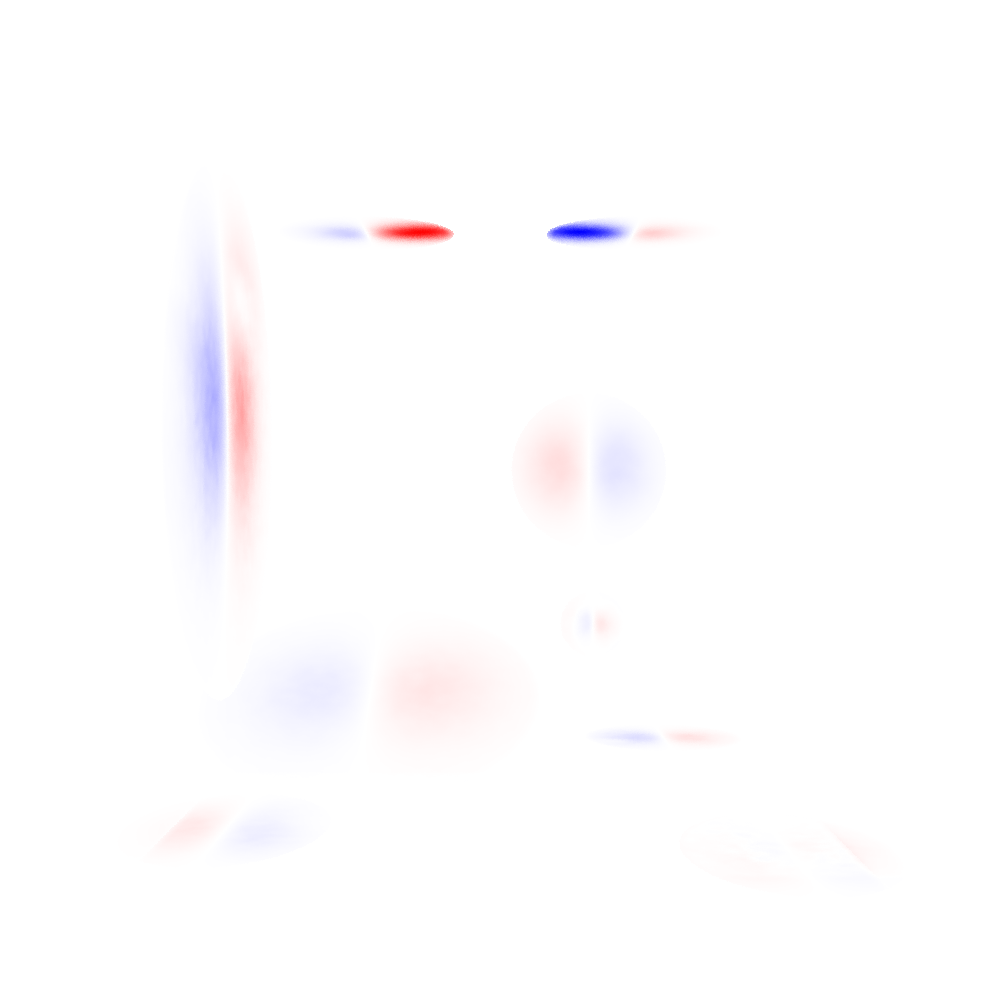
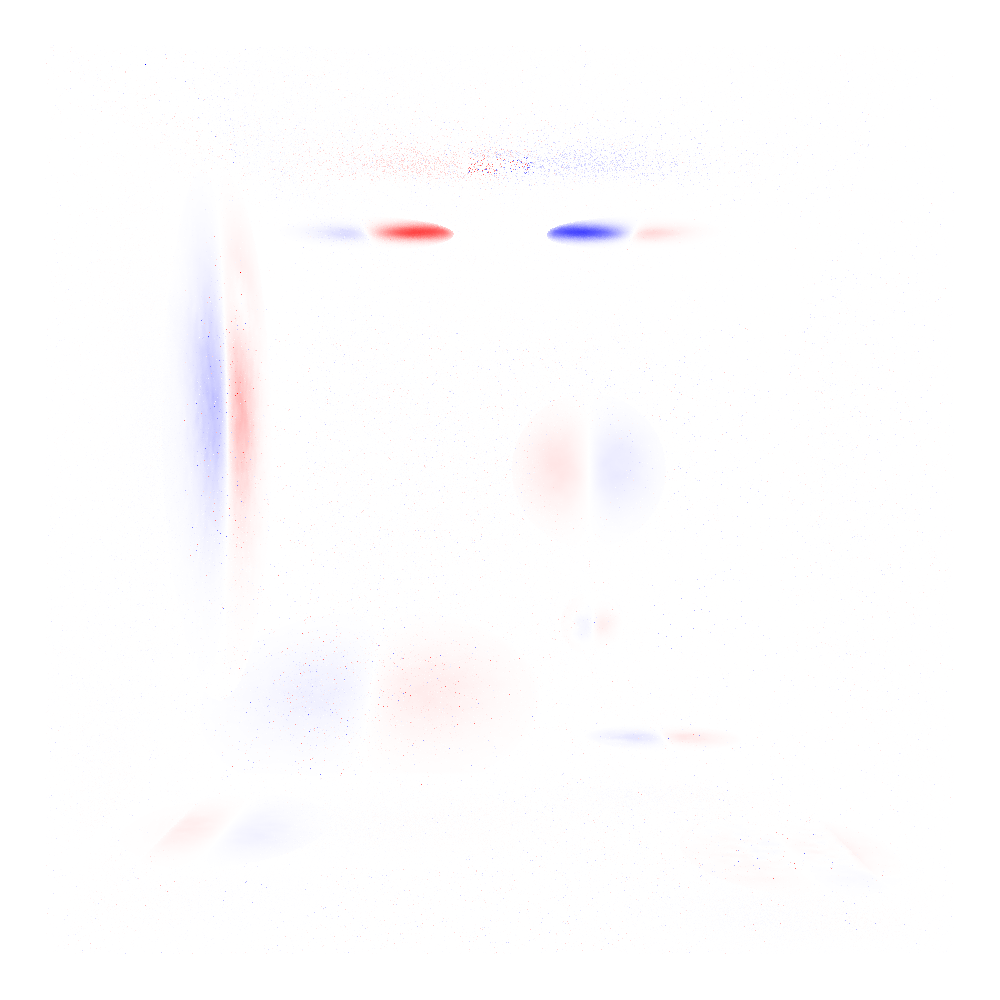
Think I got it working

diff --git a/Pale/Renderer/Kernels/AdjointKernels.cpp b/Pale/Renderer/Kernels/AdjointKernels.cpp
@@ -130,10 +130,6 @@ namespace Pale {
                     const bool isWatched = isWatchedPixel(pixelX, pixelY);
                     uint32_t recordBounceIndex = 0;
 
-                    if (rayState.bounceIndex != recordBounceIndex) {
-                        return;
-                    }
-
                     const float3 parameterAxis = {1.0f, 0.0f, 0.00f};
 
                     {
@@ -179,7 +175,6 @@ namespace Pale {
 
                                 auto splatEvent = whTransmit.splatEvents[0];
                                 // Collect alpha_i and d(alpha_i)/dc for all valid splat intersections on the segment
-                                constexpr float epsilon = 1e-6f;
                                 int validCount = 0;
                                 const auto surfel = scene.points[splatEvent.primitiveIndex];
                                 const float3 canonicalNormalW = normalize(cross(surfel.tanU, surfel.tanV));
@@ -203,7 +198,6 @@ namespace Pale {
                                 const float pAdjoint = luminanceGrayscale(rayState.pathThroughput);
                                 float3 dTauDc = -dAlphaDc;
                                 // Accumulate to your running gradient
-                                float lumianceReachingCamera = L_bg * tau;
                                 d_grad_pos = pAdjoint * L_bg * dTauDc; // no extra *tau or /tau
 
 
@@ -220,7 +214,7 @@ namespace Pale {
                                 */
                             }
 
-                            //shadowRayGrad = shadowRays(scene, worldHit, rayState, photonMap, rng128) * 0.1;
+                            //shadowRayGrad = shadowRays(scene, whTransmit, rayState, photonMap, rng128) * 0.025;
                             //d_grad_pos += shadowRayGrad;
                             if (rayState.bounceIndex >= recordBounceIndex) {
                                 const float dVdp_scalar = dot(d_grad_pos, parameterAxis);
@@ -246,33 +240,9 @@ namespace Pale {
                                 };
                                 // 1) Build intervening splat list on (t_x, t_y), excluding terminal scatter surfel
                                 // Do this however through a shadow ray
-                                float3 tauGrad{0.0f};
                                 BoundedVector<LocalTerm, kMaxSplatEvents> intervening;
                                 intervening.clear();
                                 const Ray& ray = rayState.ray;
-                                for (int ei = 0; ei < whScatter.splatEventCount - 1; ++ei) {
-                                    const auto& evt = whScatter.splatEvents[ei];
-                                    const auto surfel = scene.points[evt.primitiveIndex];
-                                    const float3 dAlphaDc = gradTransmissionPosition(
-                                        rayState.ray, evt, surfel, (whScatter.hitPositionW - ray.origin));
-                                    intervening.pushBack({evt.alpha, dAlphaDc});
-                                }
-
-                                // 2) τ and ∂τ/∂c from intervening set
-                                float logTau = 0.0f;
-                                constexpr float epsilon = 1e-6f;
-                                for (int i = 0; i < intervening.size(); ++i) {
-                                    const float oneMinusAlpha = sycl::fmax(1.0f - intervening[i].alpha, epsilon);
-                                    logTau += sycl::log(oneMinusAlpha);
-                                }
-                                float tau = sycl::exp(logTau);
-
-                                for (int i = 0; i < intervening.size(); ++i) {
-                                    const float oneMinusAlpha = sycl::fmax(1.0f - intervening[i].alpha, epsilon);
-                                    tauGrad += (-intervening[i].dAlphaDc) / oneMinusAlpha;
-                                }
-                                tauGrad *= tau;
-
 
                                 // 3) Terminal scatter at z: dα/dc with correct sign
                                 const auto& terminal = whScatter.splatEvents[whScatter.splatEventCount - 1];
@@ -298,7 +268,7 @@ namespace Pale {
                                     const float3 albedoRgb = surfel.color;
 
                                     const float3 dFs_dC = (M_1_PIf) * (dAlphaDc * albedoRgb);
-                                    const float3 f_s_rgb = (M_1_PIf) * (alpha * albedoRgb);
+                                    float3 f_s_rgb = (M_1_PIf) * (alpha * albedoRgb);
 
                                     // Cosine and its gradient
                                     float cosineSigned = 0.0f;
@@ -311,23 +281,15 @@ namespace Pale {
                                     const float3 surfelRadianceRGB = estimateSurfelRadianceFromPhotonMap(
                                         terminal, ray.direction, scene, photonMap,
                                         false, true, true);
-
-                                    const float3 surfelRadianceRGB_B = estimateSurfelRadianceFromPhotonMap(
-                                        terminal, -ray.direction, scene, photonMap,
-                                        true, true, true);
-
                                     float L_surfel = luminanceGrayscale(surfelRadianceRGB);
-                                    float L_surfel_B = luminanceGrayscale(surfelRadianceRGB_B);
-
                                     // 5) Final gradient assembly
-                                    const float3 pAdjoint = rayState.pathThroughput;
-                                    float p = luminanceGrayscale(pAdjoint);
+                                    float3 pAdjoint = rayState.pathThroughput;
+                                    float p = luminanceGrayscale(pAdjoint );
                                     // Transmission gradient from direction change
                                     // use in gradient assembly
                                     float3 brdfGrad = dFs_dC;
-                                    float3 cosineGrad = dCosineDc * f_s_rgb;
 
-                                    float3 grad = p * L_surfel * (brdfGrad);
+                                    float3 grad = p * L_surfel * dFs_dC;
                                     d_grad_pos = grad;
 
 
@@ -350,6 +312,7 @@ namespace Pale {
                                 atomicAddFloatToImage(&gradImageDst, dVdp_scalar);
                             }
                         }
+
                     }
                 });
         });
@@ -452,134 +415,6 @@ namespace Pale {
                     nextState.pixelIndex = rayState.pixelIndex;
                     nextState.pathThroughput = rayState.pathThroughput * throughputMultiplier;
 
-                    //if (nextState.bounceIndex >= settings.russianRouletteStart) {
-                    //    // Luminance-based continuation probability in [pMin, 1]
-                    //    const float3 throughputRgb = nextState.pathThroughput;
-                    //    const float luminance = 0.2126f * throughputRgb.x() + 0.7152f * throughputRgb.y() + 0.0722f *
-                    //                            throughputRgb.z();
-                    //    const float pMin = 0.10f; // safety floor to avoid zero-probability bias
-                    //    const float continuationProbability = sycl::clamp(luminance, pMin, 1.0f);
-                    //
-                    //    if (rng128.nextFloat() >= continuationProbability) {
-                    //        raysOut[rayIndex] = nextState;
-                    //        hitRecords[rayIndex] = WorldHit{};
-                    //        return; // terminate path, do not enqueue
-                    //    }
-                    //    nextState.pathThroughput = nextState.pathThroughput / continuationProbability; // unbiased
-                    //}
-
-                    // Transmission gradients on environment:
-
-                    /*
-                    float3 d_grad_pos(0.0f);
-                    const Ray &ray = rayState.ray;
-
-                    // Transmission gradients with shadow rays
-                    if (instance.geometryType == GeometryType::Mesh && worldHit.splatEventCount) {
-                        d_grad_pos += transmissionGradients(scene, worldHit, rayState, instance, photonMap);
-                        d_grad_pos += shadowRays(scene, worldHit, rayState, photonMap, rng128);
-                    }
-
-
-                    if (instance.geometryType == GeometryType::PointCloud) {
-                        struct LocalTerm {
-                            float alpha{};
-                            float3 dAlphaDc;
-                        };
-                        // 1) Build intervening splat list on (t_x, t_y), excluding terminal scatter surfel
-                        // Do this however through a shadow ray
-                        float3 tauGrad{0.0f};
-                        float tauTotal = 1.0f;
-                        BoundedVector<LocalTerm, kMaxSplatEvents> intervening;
-                        intervening.clear();
-                        for (int ei = 0; ei < worldHit.splatEventCount - 1; ++ei) {
-                            const auto &evt = worldHit.splatEvents[ei];
-                            const auto surfel = scene.points[evt.primitiveIndex];
-                            const float3 dAlphaDc = gradTransmissionPosition(
-                                rayState.ray, evt, surfel, (worldHit.hitPositionW - ray.origin));
-                            intervening.pushBack({evt.alpha, dAlphaDc});
-                        }
-
-                        // 2) τ and ∂τ/∂c from intervening set
-                        float logTau = 0.0f;
-                        constexpr float epsilon = 1e-6f;
-                        for (int i = 0; i < intervening.size(); ++i) {
-                            const float oneMinusAlpha = sycl::fmax(1.0f - intervening[i].alpha, epsilon);
-                            logTau += sycl::log(oneMinusAlpha);
-                        }
-                        tauTotal = sycl::exp(logTau);
-
-                        for (int i = 0; i < intervening.size(); ++i) {
-                            const float oneMinusAlpha = sycl::fmax(1.0f - intervening[i].alpha, epsilon);
-                            tauGrad = tauGrad + (-intervening[i].dAlphaDc) / oneMinusAlpha;
-                        }
-                        tauGrad = tauGrad * tauTotal;
-
-                        // 3) Terminal scatter at y: dα/dc with correct sign
-                        const auto &terminal = worldHit.splatEvents[worldHit.splatEventCount - 1];
-                        if (worldHit.primitiveIndex == terminal.primitiveIndex) {
-                            const auto surfel = scene.points[terminal.primitiveIndex];
-                            const float3 canonicalNormalW = normalize(cross(surfel.tanU, surfel.tanV));
-
-                            // BSDF gradient (Scatter)
-                            const float denom = dot(canonicalNormalW, ray.direction);
-                            if (sycl::fabs(denom) <= 1e-4f)
-                                return;
-                            const float2 uv = phiInverse(terminal.hitWorld, surfel);
-                            const float alpha = terminal.alpha;
-                            const float tuDotD = dot(surfel.tanU, ray.direction);
-                            const float tvDotD = dot(surfel.tanV, ray.direction);
-                            const float su = surfel.scale.x();
-                            const float sv = surfel.scale.y();
-                            const float3 duDc = ((tuDotD / denom) * canonicalNormalW - surfel.tanU) / su;
-                            const float3 dvDc = ((tvDotD / denom) * canonicalNormalW - surfel.tanV) / sv;
-                            // Correct sign and sum
-                            const float3 dAlphaDc = -alpha * (uv.x() * duDc + uv.y() * dvDc);
-                            float color = luminanceGrayscale(surfel.color);
-
-                            const float3 dFBsdfDc = (M_1_PIf) * dAlphaDc * color;
-
-                            const float3 fBsdf = (M_1_PIf) * alpha * surfel.color;
-                            float fBsdf_luminance = luminanceGrayscale(fBsdf);
-
-                            // COSINE derivative
-                            float cosineSigned = 0.0f;
-                            float3 gradCosineWrtPosition{0.0f};
-                            cosineAndGradientWrtPosition(ray.origin, terminal.hitWorld, canonicalNormalW,
-                                                         cosineSigned, gradCosineWrtPosition);
-
-                            const int travelSideSign = signNonZero(dot(canonicalNormalW, -rayState.ray.direction));
-                            float sign = travelSideSign;
-                            // Use side-aware cosines for the lobe you evaluate:
-                            float cosine = cosineSigned * sign;
-                            const float3 surfelRadianceRGB = estimateSurfelRadianceFromPhotonMap(
-                                worldHit.splatEvents[worldHit.splatEventCount - 1], ray.direction, scene, photonMap,
-                                true);
-                            float L_surfel = luminanceGrayscale(surfelRadianceRGB);
-
-                            // 5) Final gradient assembly
-                            const float3 pAdjoint = rayState.pathThroughput;
-                            // Transmission gradient from direction change
-                            // use in gradient assembly
-                            float3 brdfGrad = dFBsdfDc * tauTotal * cosine;
-                            float3 cosineGrad = gradCosineWrtPosition * tauTotal * fBsdf_luminance;
-                            float3 transmissionGrad = tauGrad * cosine * fBsdf_luminance;
-
-                            float3 grad = pAdjoint * L_surfel * (brdfGrad + transmissionGrad);
-
-                            d_grad_pos += grad;
-                        }
-                    }
-
-
-                    if (rayState.bounceIndex >= 0) {
-                        const float3 parameterAxis = {1.0f, 0.0f, 0.00f};
-                        const float dVdp_scalar = dot(d_grad_pos, parameterAxis);
-
-                        float4 &gradImageDst = sensor.framebuffer[rayState.pixelIndex];
-                        atomicAddFloatToImage(&gradImageDst, dVdp_scalar);
-                    }
-                    */
 
                     // compacted enqueue
                     sycl::atomic_ref<uint32_t,

diff --git a/Pale/main.cpp b/Pale/main.cpp
@@ -151,10 +151,10 @@ int main(int argc, char **argv) {
     Pale::PathTracerSettings settings;
     settings.photonsPerLaunch = 1e5; // 1e6
     settings.maxBounces = 4;
-    settings.numForwardPasses = 40;
+    settings.numForwardPasses = 20;
     settings.numGatherPasses = 16;
-    settings.maxAdjointBounces = 1;
-    settings.adjointSamplesPerPixel = 4;
+    settings.maxAdjointBounces = 2;
+    settings.adjointSamplesPerPixel = 1;
 
     Pale::PathTracer tracer(deviceSelector.getQueue(), settings);
     tracer.setScene(gpu, buildProducts);

diff --git a/Pale/Renderer/GPUDataTypes.h b/Pale/Renderer/GPUDataTypes.h
@@ -262,6 +262,10 @@ namespace Pale {
         float inv = 1.f / s;
         return {a.x() * inv, a.y() * inv, a.z() * inv};
     }
+    inline float3 operator/(float s, float3 a) {
+        float inv = 1.f / s;
+        return {a.x() * inv, a.y() * inv, a.z() * inv};
+    }
 
 
     inline float3 min(float3 a, float3 b) { return sycl::min(a.v, b.v); }

diff --git a/python/finite_differences.py b/python/finite_differences.py
@@ -204,8 +204,8 @@ def main():
     renderer_settings = {
         "photons": 1e5,
         "bounces": 4,
-        "forward_passes": 40,
-        "gather_passes": 16,
+        "forward_passes": 50,
+        "gather_passes": 64,
         "adjoint_bounces": 4,
         "adjoint_passes": 6,
     }
